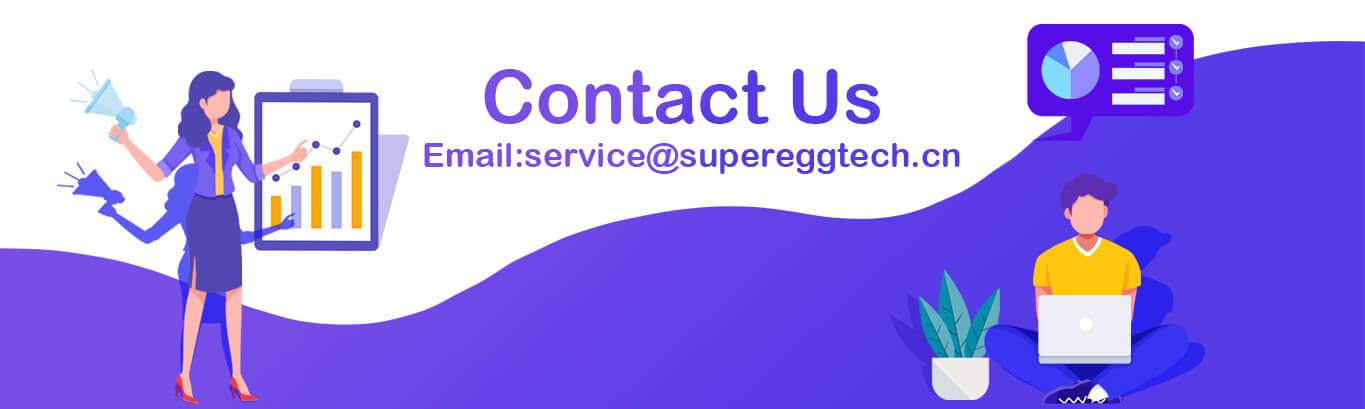
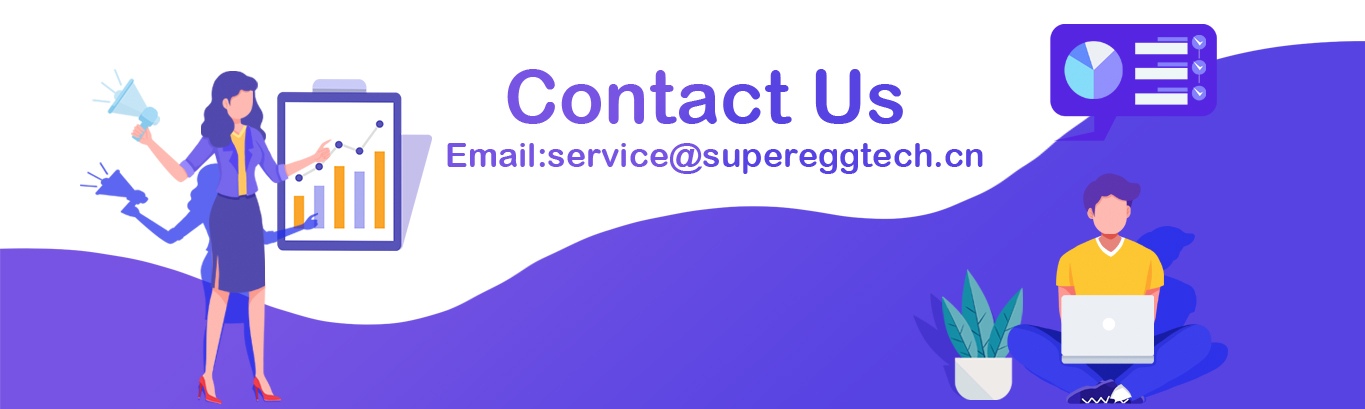
fix image

diff --git a/js/config.js b/js/config.js
@@ -8,11 +8,11 @@ var BANNER_CONTENT_EN = [
 ];
 
 var JOIN_US_INFO_EN = [
-    "<div class=\"join-section_en\"  style=\"margin-top: 60px; height: 340px;\">\n      <div class=\"section-wrap\"  id=\"index-section-wrap\" >\n  <br/ \n  <br/ \n  <br/ \n <h1 id=\"contactus_title\"></h1> \n   <br/ \n <br/ \n <br/ \n  <br/ \n <br/ \n <p class=\"sub-title\"></p> \n  <br/ \n <br/ \n <br/ \n <br/ \n   <h1 id=\"joinUs\"> </h1> \n  <br/ \n  <br/ \n  </div>\n    </div>", 
+    "<div class=\"join-section_en\"  style=\"margin-top: 40px; height: 400px;\">\n      <div class=\"section-wrap\"  id=\"index-section-wrap\" >\n  <br/ \n  <br/ \n  <br/ \n <h1 id=\"contactus_title\"></h1> \n   <br/ \n <br/ \n <br/ \n  <br/ \n <br/ \n <p class=\"sub-title\"></p> \n  <br/ \n <br/ \n <br/ \n <br/ \n   <h1 id=\"joinUs\"> </h1> \n  <br/ \n  <br/ \n  </div>\n    </div>", 
 ]
 
 var JOIN_US_INFO_ZH = [
-    "<div class=\"join-section_zh\"  style=\"margin-top: 60px; height: 340px;\">\n      <div class=\"section-wrap\"  id=\"index-section-wrap\" >\n  <br/ \n  <br/ \n  <br/ \n <h1 id=\"contactus_title\"></h1> \n   <br/ \n <br/ \n <br/ \n  <br/ \n <br/ \n <p class=\"sub-title\"></p> \n  <br/ \n <br/ \n <br/ \n <br/ \n   <h1 id=\"joinUs\"> </h1> \n  <br/ \n  <br/ \n  </div>\n    </div>", 
+    "<div class=\"join-section_zh\"  style=\"margin-top: 40px; height: 400px;\">\n      <div class=\"section-wrap\"  id=\"index-section-wrap\" >\n  <br/ \n  <br/ \n  <br/ \n <h1 id=\"contactus_title\"></h1> \n   <br/ \n <br/ \n <br/ \n  <br/ \n <br/ \n <p class=\"sub-title\"></p> \n  <br/ \n <br/ \n <br/ \n <br/ \n   <h1 id=\"joinUs\"> </h1> \n  <br/ \n  <br/ \n  </div>\n    </div>", 
 ]
 
 // var BANNER_CONTENT_EN = [
